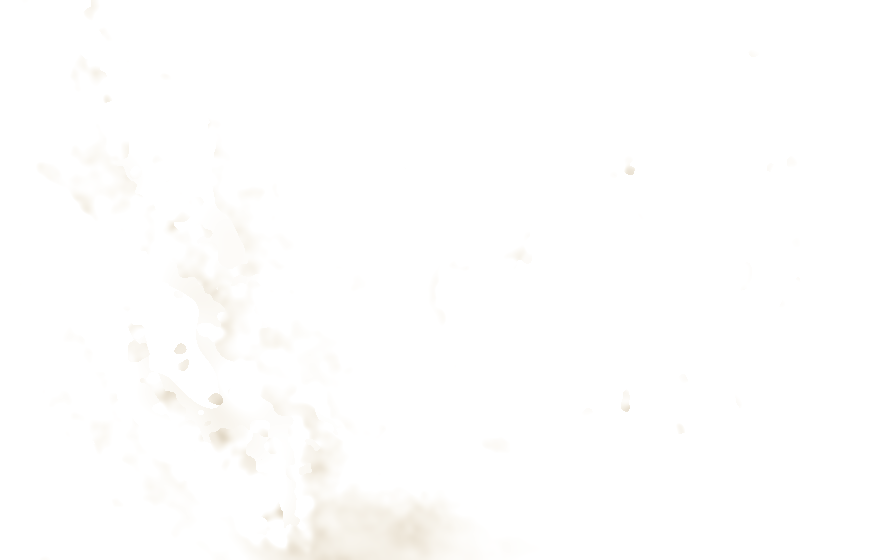
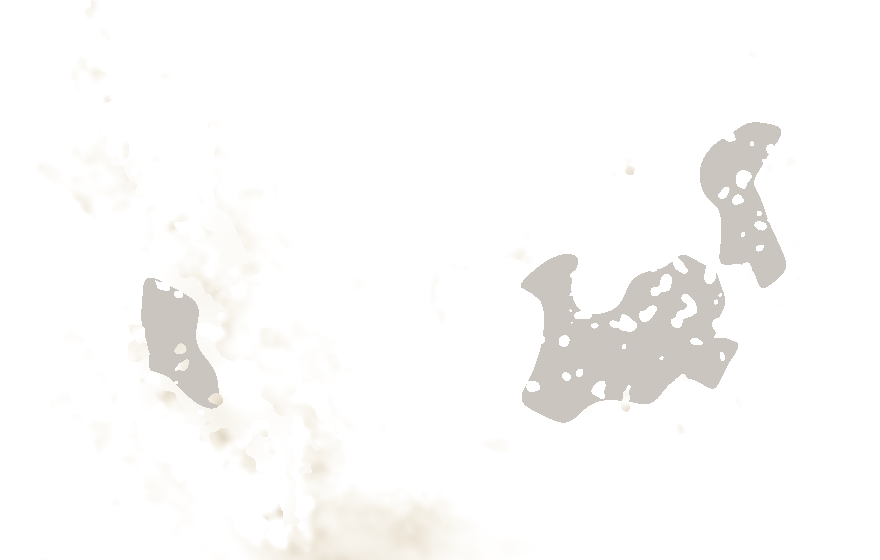
Smoke: hatch no-reading holes, add AOD scale
Areas with no AOD even after the fill (cloud, or smoke too thick for Deep Blue
to retrieve) are drawn as grey stripes instead of clear air. Colour bar with
0.3 / 1 / 2 / 3+ ticks and a no-reading swatch under the smoke toggle.

Changed region(s): [[0.583, 0.2125, 0.8898, 0.7589], [0.1534, 0.4857, 0.2455, 0.7286]]

diff --git a/style.css b/style.css
@@ -86,6 +86,13 @@ footer { margin-top: auto; display: grid; gap: 10px; }
 #chart circle.hh { fill: var(--hh); stroke: none; }
 .probenote { margin: 6px 0 0; font-size: 13px; color: var(--ink); }
 .smokenote { margin: 4px 0 0 30px; font-size: 12px; color: var(--muted); }
+.smokenote p { margin: 0 0 6px; }
+.aodbar { height: 10px; border-radius: 3px; margin-top: 2px;
+  background: linear-gradient(90deg, rgba(226,205,160,0) 0%, rgba(226,205,160,0.75) 26%, rgb(170,145,112) 63%, rgb(96,74,56) 100%); }
+.aodticks { position: relative; height: 14px; margin: 2px 0 8px; font-size: 11px; }
+.aodticks span { position: absolute; top: 0; white-space: nowrap; }
+.aodticks span[style^="left:26"], .aodticks span[style^="left:63"] { transform: translateX(-50%); }
+.key.nodata { background: repeating-linear-gradient(45deg, #beb4a8 0 2px, #8c847a 2px 7px); }
 .city { white-space: nowrap; font: 600 12px/1.2 system-ui, sans-serif; color: #fff; background: rgba(16, 20, 18, 0.85);
   border-radius: 6px; padding: 3px 7px; transform: translate(-50%, -50%); border-left: 3px solid #8aa; width: max-content; }
 .city b { font-weight: 600; color: var(--muted); margin-right: 4px; }

diff --git a/index.html b/index.html
@@ -32,7 +32,12 @@
       <label><input type="checkbox" id="tPeat"> Peat: dark = burned peat (the CO₂)</label>
       <label><input type="checkbox" id="tFires"> Fire detections (FIRMS)</label>
       <label><input type="checkbox" id="tSmoke"> Smoke over the region (NASA VIIRS)</label>
-      <p class="smokenote" id="smokeNote" hidden>Haze is what normal satellites see. Holes are filled from the steps either side and nearby readings. Numbers are aerosol optical depth: under 0.3 is clear, over 1 is thick smoke.</p>
+      <div class="smokenote" id="smokeNote" hidden>
+        <p>Haze is what normal satellites see, as aerosol optical depth (how much sunlight the smoke blocks).</p>
+        <div class="aodbar"></div>
+        <div class="aodticks"><span style="left:0">0.3 clear</span><span style="left:26%">1 hazy</span><span style="left:63%">2</span><span style="right:0">3+ thick</span></div>
+        <p><span class="key nodata"></span>No reading: cloud, or smoke too thick to measure. Small gaps are filled from nearby readings.</p>
+      </div>
       <div class="agree" id="agree" hidden></div>
     </section>
 
